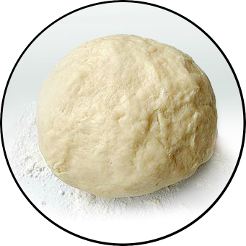
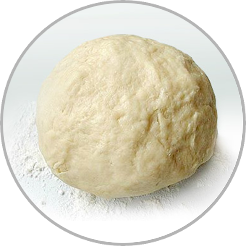
Update images

diff --git a/app/assets/stylesheets/catalog.scss b/app/assets/stylesheets/catalog.scss
@@ -31,11 +31,19 @@ body {
 
     &.country {
       width: 70%;
+
+      img {
+        border: 1px solid #AAA;
+      }
+
+      img:hover {
+        box-shadow: 0 0 10px #AAA;
+      }
     }
   }
 
   .navbar {
-    padding: 10px 0px 10px 10px;
+    padding: 10px 0 10px 10px;
     margin: 0;
     width: 100%;
   }
@@ -76,7 +84,7 @@ body {
 }
 
 .banner {
-  box-shadow: 0px 0px 20px #000000;
+  box-shadow: 0 0 20px #000000;
   position: relative;
   overflow: hidden;
 
@@ -163,8 +171,6 @@ body {
   overflow: hidden;
 
   .up, .down {
-    width: 123px;
-    height: 123px;
     border-radius: 50%;
     overflow: hidden;
   }
@@ -172,11 +178,11 @@ body {
 
 .cat .down {
   display: none;
-  background: rgba(255,255,255,0.8);
+  background: rgba(255,255,255,0.9);
   position: absolute;
   top: 0;
   text-align: center;
-  border: 2px solid #000;
+  border: 2px solid #858585;
 
   a {
     position: relative;

diff --git a/app/assets/javascripts/script.js b/app/assets/javascripts/script.js
@@ -39,4 +39,18 @@ $(function() {
   }).mouseleave(function() {
     $(this).find('.down').fadeOut(750);
   });
+
+  $('.down').each(function() {
+    var data = $('.up').first().width();
+    $(this).css('width', data);
+    $(this).css('height', data);
+  });
+
+  $(window).resize(function() {
+    $('.down').each(function() {
+      var data = $('.up').first().width();
+      $(this).css('width', data);
+      $(this).css('height', data);
+    });
+  });
 });
